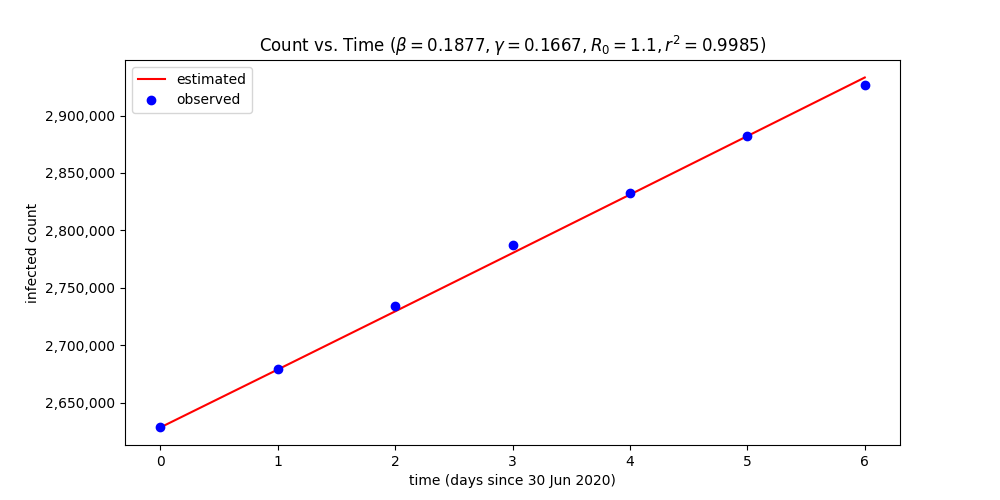
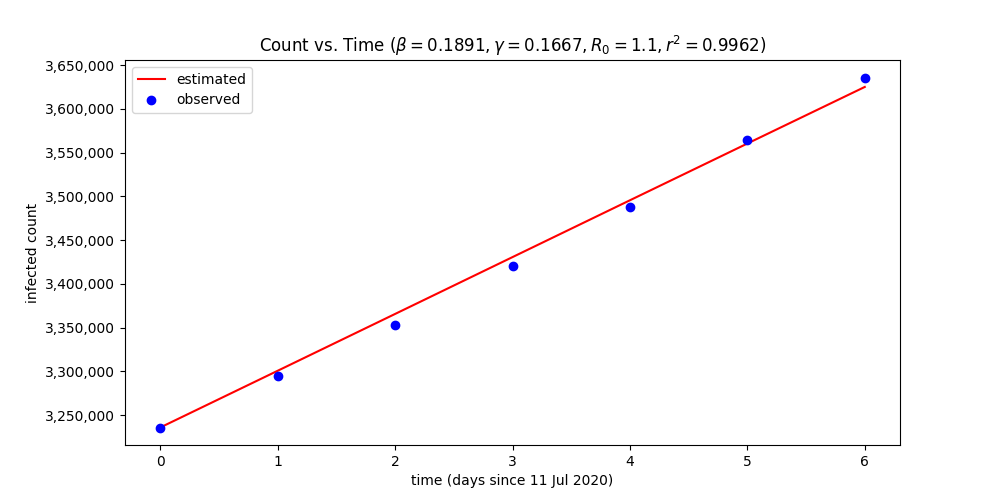
Update number of days and starting date

diff --git a/scripts/model.py b/scripts/model.py
@@ -50,7 +50,7 @@ def main():
 
     # Projection
     project(
-        population=total_us_population, initial=initial, days=500, infection_rate=estimated_infection_rate,
+        population=total_us_population, initial=initial, days=400, infection_rate=estimated_infection_rate,
         recovery_rate=recovery_rate, start_date=start_date
     )
 
